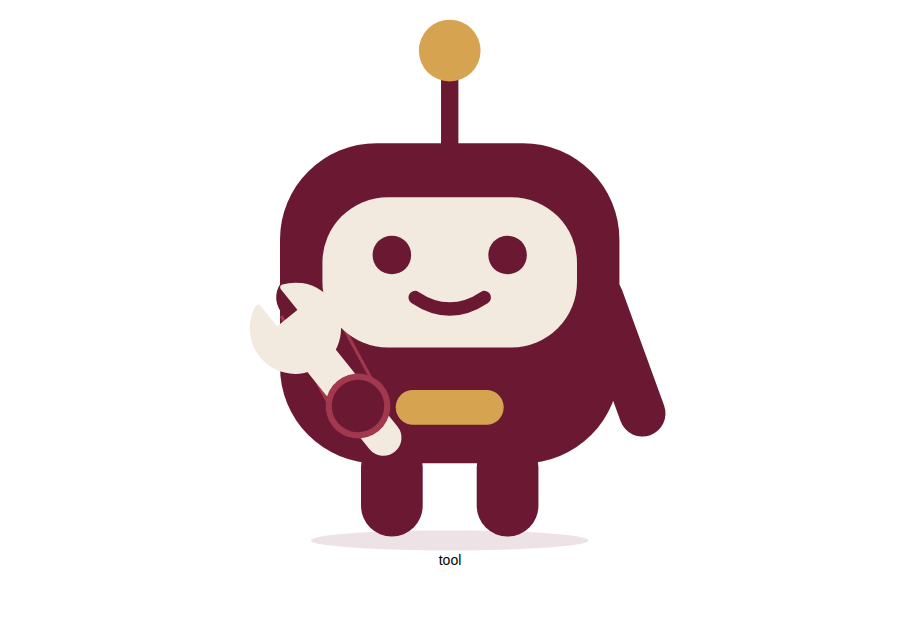
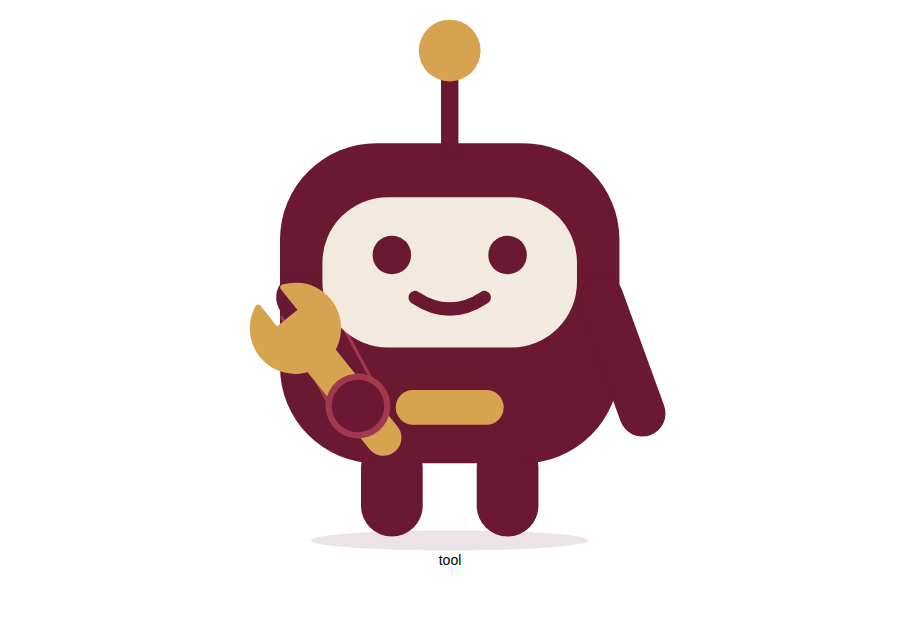
fix(mascot): make the wrench gold

Changed region(s): [[0.28, 0.4375, 0.4044, 0.625], [0.4044, 0.6562, 0.4667, 0.7188]]

diff --git a/public/css/mascot.css b/public/css/mascot.css
@@ -41,7 +41,7 @@
 .rbm-panel { fill: none; stroke: var(--rb-color-accent); stroke-width: 1.6; stroke-linejoin: round; }
 .rbm-cells { fill: var(--rb-color-maroon); opacity: .16; }
 .rbm-tick { fill: none; stroke: var(--rb-color-maroon); stroke-width: 2; stroke-linecap: round; stroke-linejoin: round; }
-.rbm-wrench { fill: var(--rb-color-cream); stroke: var(--rb-color-cream); stroke-width: 1.2; stroke-linejoin: round; }
+.rbm-wrench { fill: var(--rb-color-gold); stroke: var(--rb-color-gold); stroke-width: 1.2; stroke-linejoin: round; }
 .rbm-keyring { fill: none; stroke: var(--rb-color-gold); stroke-width: 4.5; }
 .rbm-keyshaft { fill: none; stroke: var(--rb-color-gold); stroke-width: 4.5; stroke-linecap: round; }
 

diff --git a/tests/Feature/Frontend/MascotBrandTest.php b/tests/Feature/Frontend/MascotBrandTest.php
@@ -131,9 +131,9 @@ final class MascotBrandTest extends TestCase
         $this->assertLessThan(strpos($svg, 'class="rbm-arm rbm-arm--l"'), strpos($svg, 'rbm-pill'), 'the pill is body: drawn before the limbs, props and hands');
         preg_match('/rbm-prop--tool\">(.*?)<\\/g>\\s*<\\/g>/s', $svg, $tool);
         $this->assertNotEmpty($tool);
-        $this->assertStringNotContainsString('rbm-maroon', $tool[1], 'the wrench is one light colour: no maroon patch painted over its head');
+        $this->assertStringNotContainsString('rbm-maroon', $tool[1], 'the wrench is one gold colour: no maroon patch painted over its head');
         $this->assertStringContainsString('class="rbm-wrench" d="M-3.2 -17.875A8.5 8.5 0 1 0 3.2 -17.875V-12H-3.2Z"', $tool[1], 'the open jaw is a real gap in the head path');
-        $this->assertStringContainsString('.rbm-wrench { fill: var(--rb-color-cream); stroke: var(--rb-color-cream)', $css);
+        $this->assertStringContainsString('.rbm-wrench { fill: var(--rb-color-gold); stroke: var(--rb-color-gold)', $css);
         $this->assertSame(2, substr_count($svg, 'width="16" height="26" rx="8"'), 'one pair of stubby legs');
         $this->assertSame(2, substr_count($svg, 'cy="69" r="5"'), 'two simple round eyes');
         $this->assertSame(1, substr_count($svg, 'class="rbm-gold rbm-pill"'), 'one gold chest accent');
